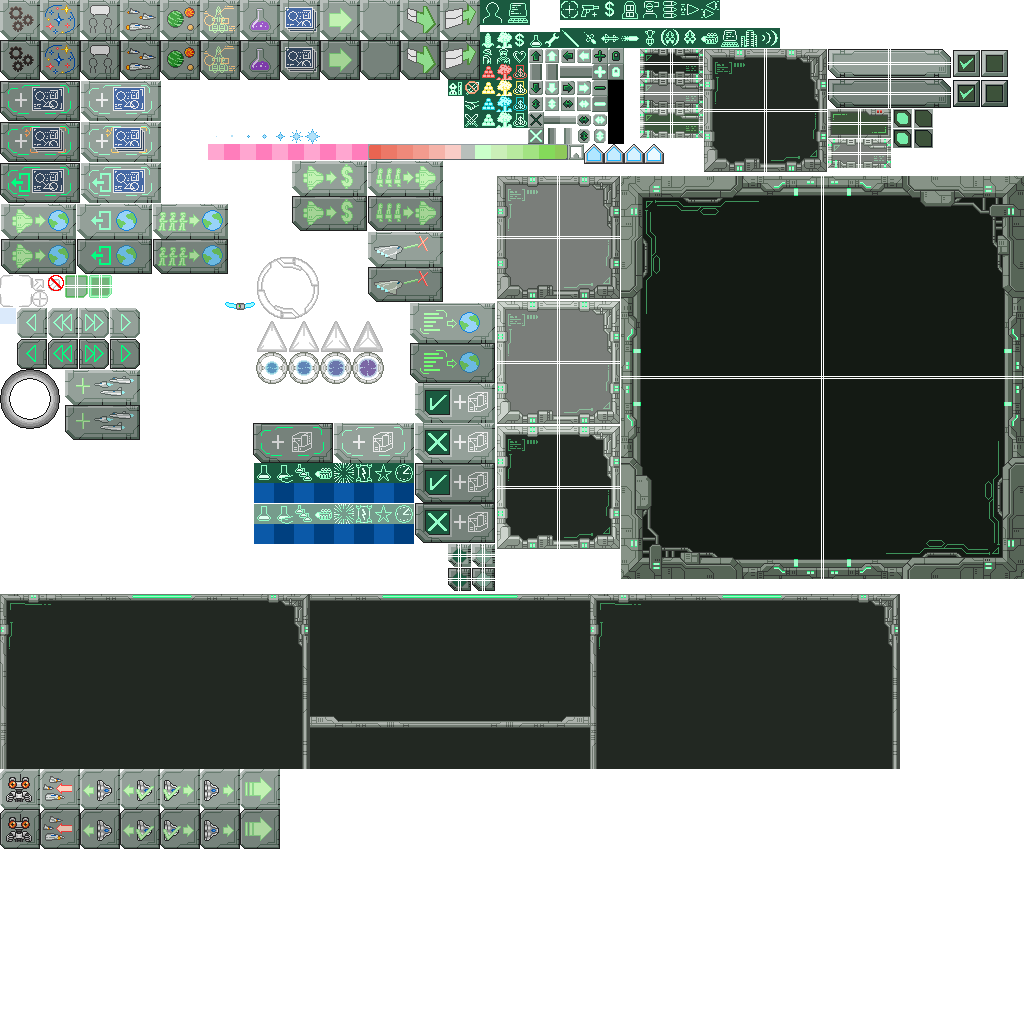
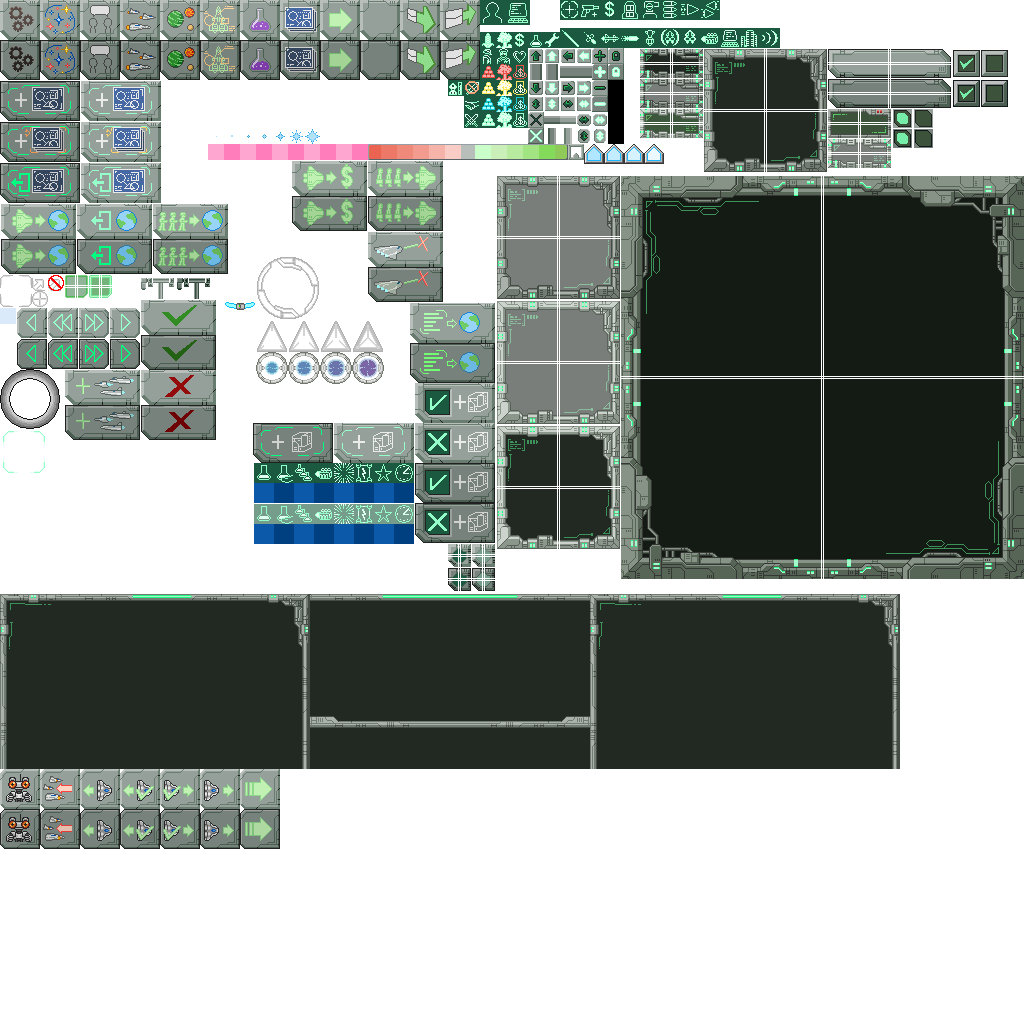
Replaced the placeholder tiny scrollbar with one provided by the artist.

Changed region(s): [[0.125, 0.25, 0.2188, 0.4375]]

diff --git a/Beyond Beyaan/Data Managers/InterfaceManagement.cs b/Beyond Beyaan/Data Managers/InterfaceManagement.cs
@@ -287,6 +287,8 @@ namespace Beyond_Beyaan
 		private int _yPos;
 		private int _width;
 		private int _height;
+		private int _fixedSize;
+		private int _variableSize;
 		#endregion
 
 		#region Properties
@@ -295,22 +297,24 @@ namespace Beyond_Beyaan
 		#endregion
 
 		#region Constructors
-		public bool Initialize(List<string> backgroundSections, List<string> foregroundSections, bool isHorizontal, string buttonText, ButtonTextAlignment alignment, int xPos, int yPos, int width, int height, Random r, out string reason)
+		public bool Initialize(List<string> backgroundSections, List<string> foregroundSections, bool isHorizontal, string buttonText, ButtonTextAlignment alignment, int xPos, int yPos, int width, int height, int fixedSize, int variableSize, Random r, out string reason)
 		{
 			_xPos = xPos;
 			_yPos = yPos;
 			_width = width;
 			_height = height;
+			_fixedSize = fixedSize;
+			_variableSize = variableSize;
 			_alignment = alignment;
 
 			backgroundImage = new BBUniStretchableImage();
 			foregroundImage = new BBUniStretchableImage();
 
-			if (!backgroundImage.Initialize(xPos, yPos, width, height, 7, 2, isHorizontal, backgroundSections, r, out reason))
+			if (!backgroundImage.Initialize(xPos, yPos, width, height, fixedSize, variableSize, isHorizontal, backgroundSections, r, out reason))
 			{
 				return false;
 			}
-			if (!foregroundImage.Initialize(xPos, yPos, width, height, 7, 2, isHorizontal, foregroundSections, r, out reason))
+			if (!foregroundImage.Initialize(xPos, yPos, width, height, fixedSize, variableSize, isHorizontal, foregroundSections, r, out reason))
 			{
 				return false;
 			}
@@ -1091,7 +1095,7 @@ namespace Beyond_Beyaan
 					}
 					if (!Scroll.Initialize(new List<string> { "ScrollVerticalBGButton1", "ScrollVerticalBGButton2", "ScrollVerticalBGButton3" }, 
 										   new List<string> { "ScrollVerticalFGButton1", "ScrollVerticalFGButton2", "ScrollVerticalFGButton3" },
-										   false, "", ButtonTextAlignment.LEFT, xPos, yPos + 16, 16, scrollButtonLength, r, out reason))
+										   false, "", ButtonTextAlignment.LEFT, xPos, yPos + 16, 16, 7, 2, scrollButtonLength, r, out reason))
 					{
 						return false;
 					}
@@ -1114,7 +1118,7 @@ namespace Beyond_Beyaan
 					}
 					if (!Scroll.Initialize(new List<string> { "ScrollHorizontalBGButton1", "ScrollHorizontalBGButton2", "ScrollHorizontalBGButton3" },
 										   new List<string> { "ScrollHorizontalFGButton1", "ScrollHorizontalFGButton2", "ScrollHorizontalFGButton3" },
-										   false, "", ButtonTextAlignment.LEFT, xPos + 16, yPos, 16, scrollButtonLength, r, out reason))
+										   false, "", ButtonTextAlignment.LEFT, xPos + 16, yPos, 16, 7, 2, scrollButtonLength, r, out reason))
 					{
 						return false;
 					}
@@ -1139,7 +1143,7 @@ namespace Beyond_Beyaan
 				}
 				if (!Scroll.Initialize(new List<string> { "SliderHorizontalBGButton1", "SliderHorizontalBGButton2", "SliderHorizontalBGButton3" },
 									   new List<string> { "SliderHorizontalFGButton1", "SliderHorizontalFGButton2", "SliderHorizontalFGButton3" },
-									   true, "", ButtonTextAlignment.LEFT, xPos + 16, yPos, 16, scrollButtonLength, r, out reason))
+									   true, "", ButtonTextAlignment.LEFT, xPos + 16, yPos, 16, 7, 2, scrollButtonLength, r, out reason))
 				{
 					return false;
 				}
@@ -1463,7 +1467,7 @@ namespace Beyond_Beyaan
 				{
 					if (!_scroll.Initialize(new List<string> { "TinyScrollVerticalBGButton1", "TinyScrollVerticalBGButton2", "TinyScrollVerticalBGButton3" },
 										   new List<string> { "TinyScrollVerticalFGButton1", "TinyScrollVerticalFGButton2", "TinyScrollVerticalFGButton3" },
-										   isHorizontal, "", ButtonTextAlignment.LEFT, xPos, yPos, 5, _scrollButtonLength, r, out reason))
+										   isHorizontal, "", ButtonTextAlignment.LEFT, xPos, yPos, 5, _scrollButtonLength, 3, 1, r, out reason))
 					{
 						return false;
 					}
@@ -1478,7 +1482,7 @@ namespace Beyond_Beyaan
 				{
 					if (!_scroll.Initialize(new List<string> { "TinyScrollHorizontalBGButton1", "TinyScrollHorizontalBGButton2", "TinyScrollHorizontalBGButton3" },
 										   new List<string> { "TinyScrollHorizontalFGButton1", "TinyScrollHorizontalFGButton2", "TinyScrollHorizontalFGButton3" },
-										   isHorizontal, "", ButtonTextAlignment.LEFT, xPos, yPos, _scrollButtonLength, 5, r, out reason))
+										   isHorizontal, "", ButtonTextAlignment.LEFT, xPos, yPos, _scrollButtonLength, 5, 3, 1, r, out reason))
 					{
 						return false;
 					}
@@ -1495,7 +1499,7 @@ namespace Beyond_Beyaan
 				_scrollButtonLength = 16;
 				if (!_scroll.Initialize(new List<string> { "TinySliderHorizontalBGButton1", "TinySliderHorizontalBGButton2", "TinySliderHorizontalBGButton3" },
 									   new List<string> { "TinySliderHorizontalFGButton1", "TinySliderHorizontalFGButton2", "TinySliderHorizontalFGButton3" },
-									   true, "", ButtonTextAlignment.LEFT, xPos, yPos, _scrollButtonLength, 16, r, out reason))
+									   true, "", ButtonTextAlignment.LEFT, xPos, yPos, _scrollButtonLength, 5, 3, 1, r, out reason))
 				{
 					return false;
 				}
